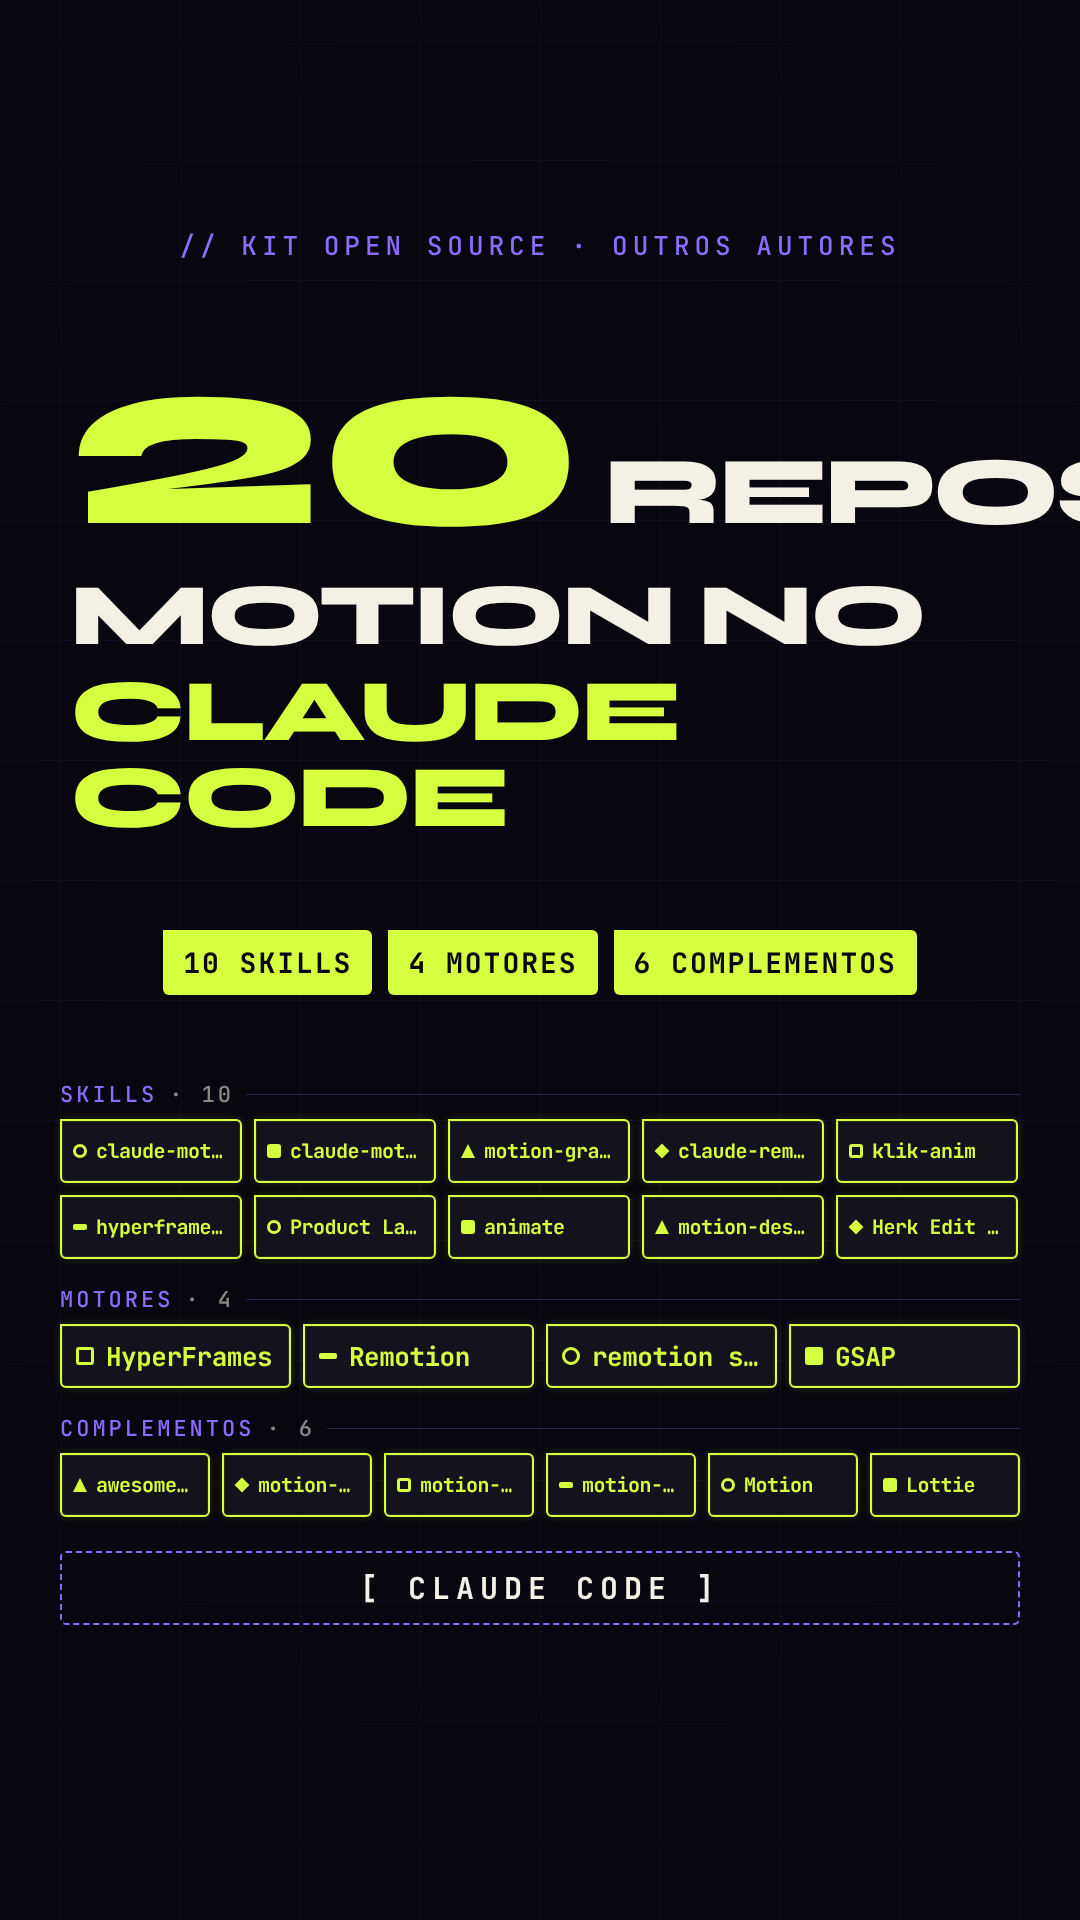
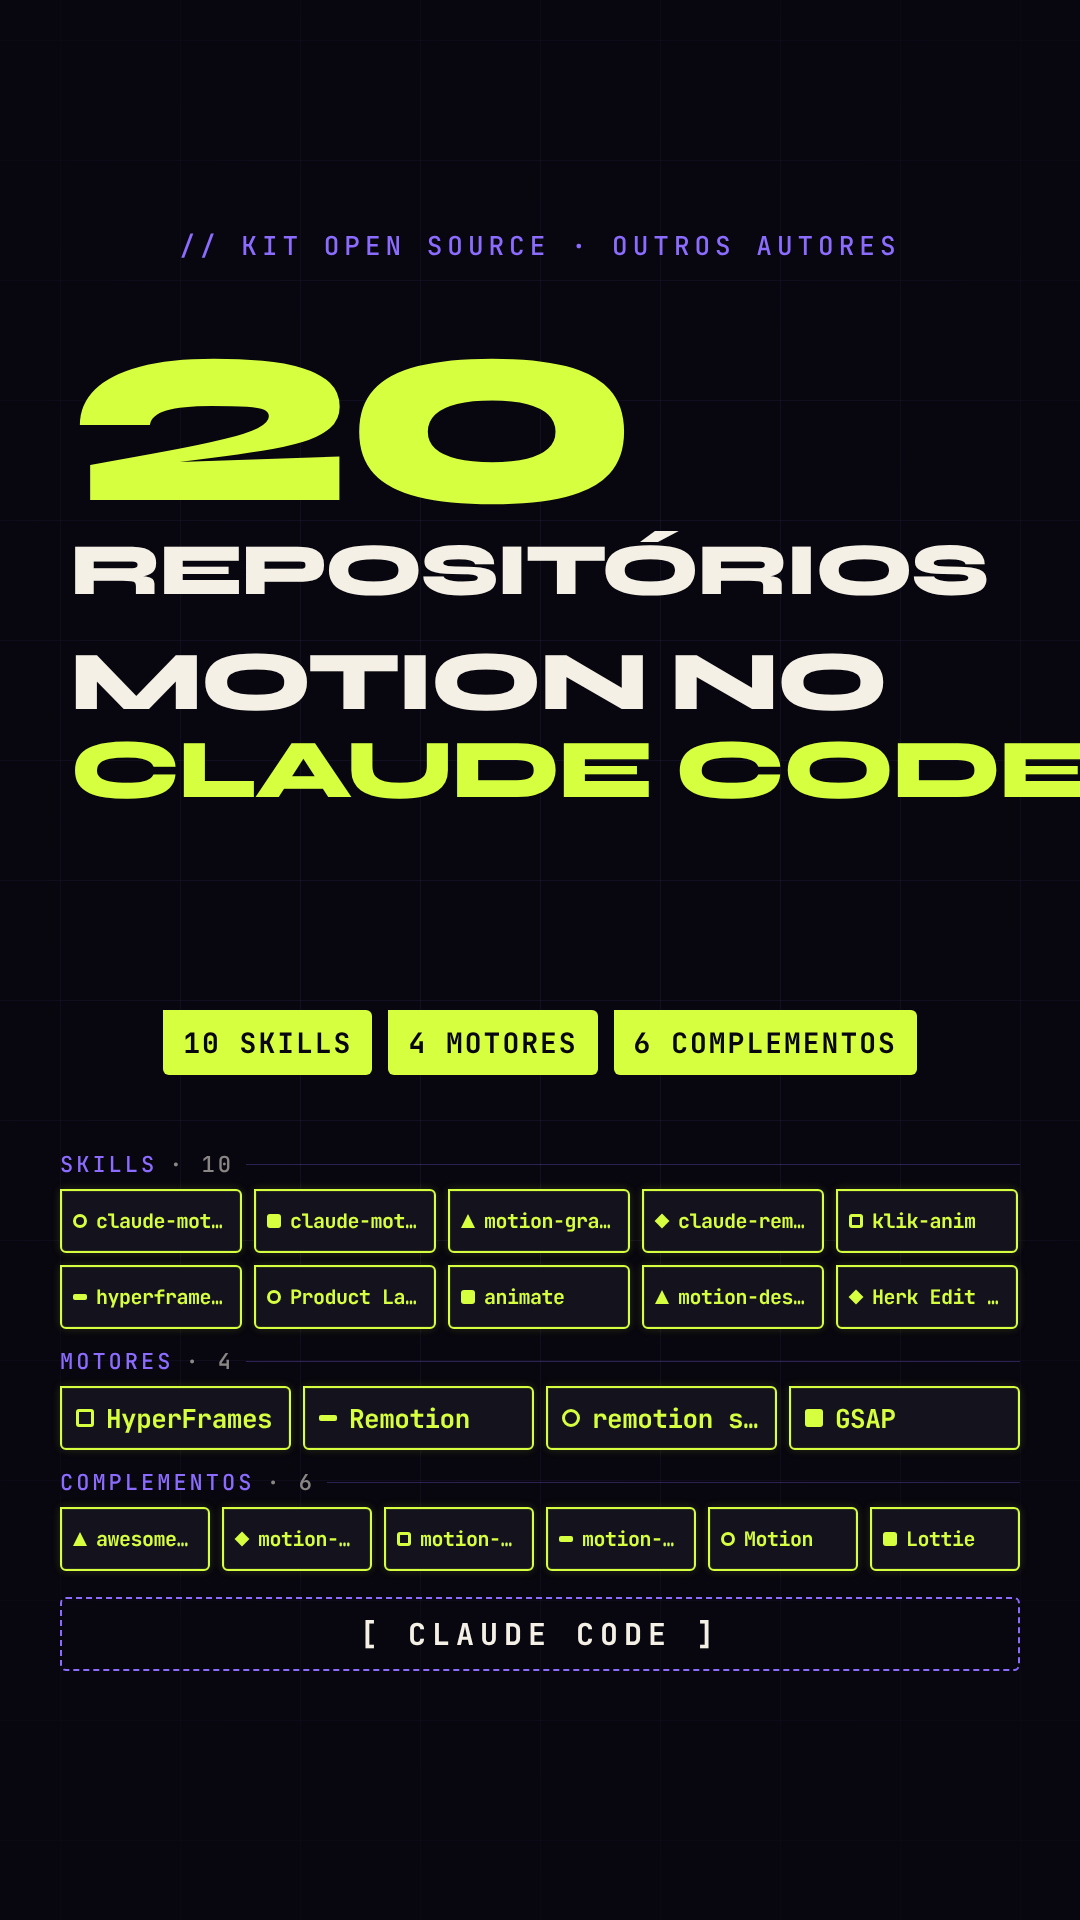
Motion Reels v3: ajustes de legibilidade, capa final e SRT em docs
Claude-Session: https://claude.ai/code/session_01C39KS8z7dGGnhUVpVCpLBU

Changed region(s): [[0.0306, 0.4688, 0.9472, 0.875], [0.0611, 0.1875, 1.0, 0.4375]]

diff --git a/motion-reels-v3/src/Cover.tsx b/motion-reels-v3/src/Cover.tsx
@@ -15,7 +15,7 @@ export const Cover: React.FC = () => {
       </Mono>
       <div style={{ position: "absolute", top: 290, left: 70, right: 70, display: "flex", flexDirection: "column", gap: 6 }}>
         <Title size={280} color={COLORS.lime} style={{ lineHeight: 0.85 }}>20</Title>
-        <Title size={96} color={COLORS.text} style={{ whiteSpace: "nowrap" }}>REPOSITÓRIOS</Title>
+        <Title size={74} color={COLORS.text} style={{ whiteSpace: "nowrap" }}>REPOSITÓRIOS</Title>
         <Title size={84} color={COLORS.text} style={{ marginTop: 28, whiteSpace: "nowrap" }}>MOTION NO</Title>
         <Title size={84} color={COLORS.lime} style={{ whiteSpace: "nowrap" }}>CLAUDE CODE</Title>
       </div>
